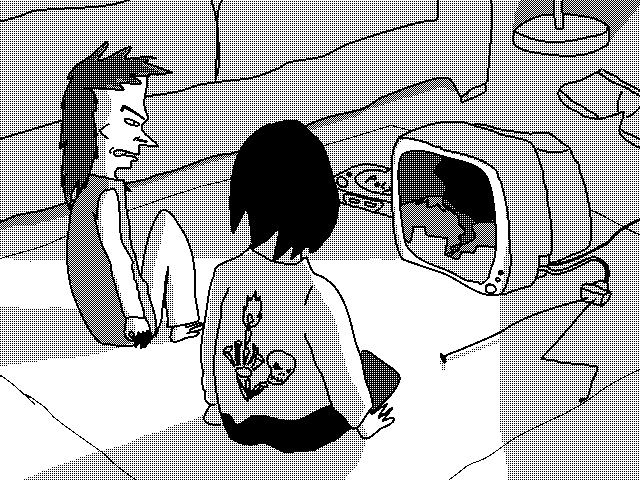
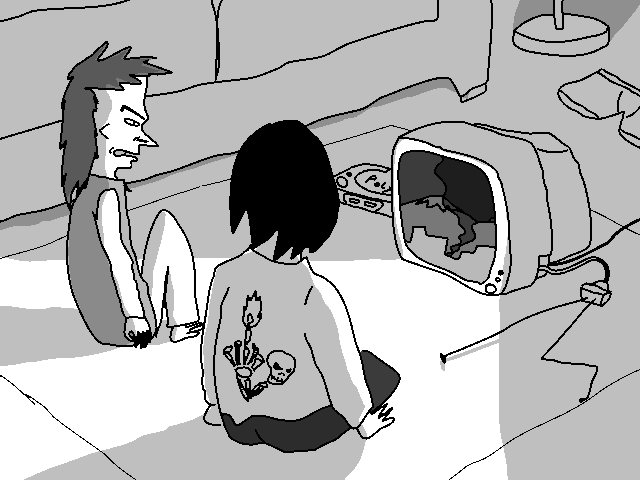
Mas trucos con shaders

diff --git a/README.md b/README.md
@@ -19,17 +19,16 @@ La adaptación que nadie pidió, la experiencia que ninguno quiere volver a repe
 
  * Código: 95%
  * Texto: 5%
- * Música: 1%
+ * Música: 2%
  * Gráficos: ~0%
 
 Tiempo estimado restante: 24 años.
 
 ## ¿Como juego esto?
 
- * No tiene casi ningún gráfico así que es mejor leer el texto directamente (todo lo que esta en gw1/res/data)
- * O ya que insiste:
-   1. Descargue y extraiga el archivo zip de este proyecto (arriba donde dice Code > Download ZIP)
-   2. Descargue [love2d](https://love2d.org)
-   3. Abra con este la carpeta 'gw1' (supongo que arrastrando la carpeta al programa, o usando 'Abrir con...' o que se yo)
-   4. Llore. Solo llore.
-   5. Si de pronto sale una pantalla de error, lea el punto que dice que es mejor leer el texto directamente. No era chiste. I never chiste.
+ 1. No lo haga, casi no tiene gráficos. Es mejor leer el texto directamente (todo lo que esta en gw1/res/data)
+ 2. Ya que insiste, descargue y extraiga el archivo zip de este proyecto (arriba donde dice Code > Download ZIP)
+ 3. Descargue [love2d](https://love2d.org)
+ 4. Abra con este la carpeta 'gw1' (supongo que arrastrando la carpeta al programa, o usando 'Abrir con...' o que se yo)
+ 5. Llore. Solo llore.
+ 6. Si de pronto sale una pantalla de error, lea el punto 1. No era chiste. I never chiste.
